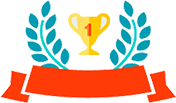
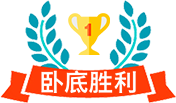
task7-3

Changed region(s): [[0.2273, 0.6699, 0.7955, 0.9029]]

diff --git a/CSS/task7/task7-3.html b/CSS/task7/task7-3.html
@@ -21,7 +21,7 @@
 
 <main class="mainbox">
     <p class="mainp1">
-        卧底胜利
+        
     </p>
     <p class="mainp2">
         太棒了！你知道么？在捉鬼游戏中只有20%的卧底取得游戏最终的胜利哦！
@@ -80,7 +80,7 @@
         白天：8号被全民投票投死，8号是杀手
     </p>
 </div>
-<div class="logbox">
+<div class="lastlogbox">
     <div class="logdiv">
         <p class="logp1">
                 第一天

diff --git a/CSS/task7/task7-3.css b/CSS/task7/task7-3.css
@@ -41,7 +41,7 @@ body{
     height: 4rem;
     background-image: url(./task7-6.png);
     background-repeat: no-repeat;
-    background-position: 3rem 1rem;
+    background-position: -1rem 1rem;
 }
 .mainp2{
     padding: 1rem 3rem 1rem 3rem;
@@ -57,6 +57,11 @@ body{
 }
 .logbox{
     padding: 0 2rem;
+    border-bottom: 0.1rem solid #ddd;
+}
+.lastlogbox{
+    padding: 0 2rem;
+    margin-bottom: 8rem;
     border-bottom: 0.1rem solid #ddd;
 }
 .logdiv{

diff --git a/CSS/task7/task7-1.html b/CSS/task7/task7-1.html
@@ -21,7 +21,7 @@
         <p class="lastgame">
             上次游戏：捉鬼猜词版
         </p>
-        <div>
+        <div style="margin-right: 3px">
             <img src="./task7-1.png" alt="右">
         </div>
       

diff --git a/CSS/task7/task7-1.css b/CSS/task7/task7-1.css
@@ -49,7 +49,7 @@ body{
     background-color: #29bde0;
 }
 .mainbutton0{
-    padding: 10px;
+    padding: 13px;
     
 }
 .mainbutton2{
